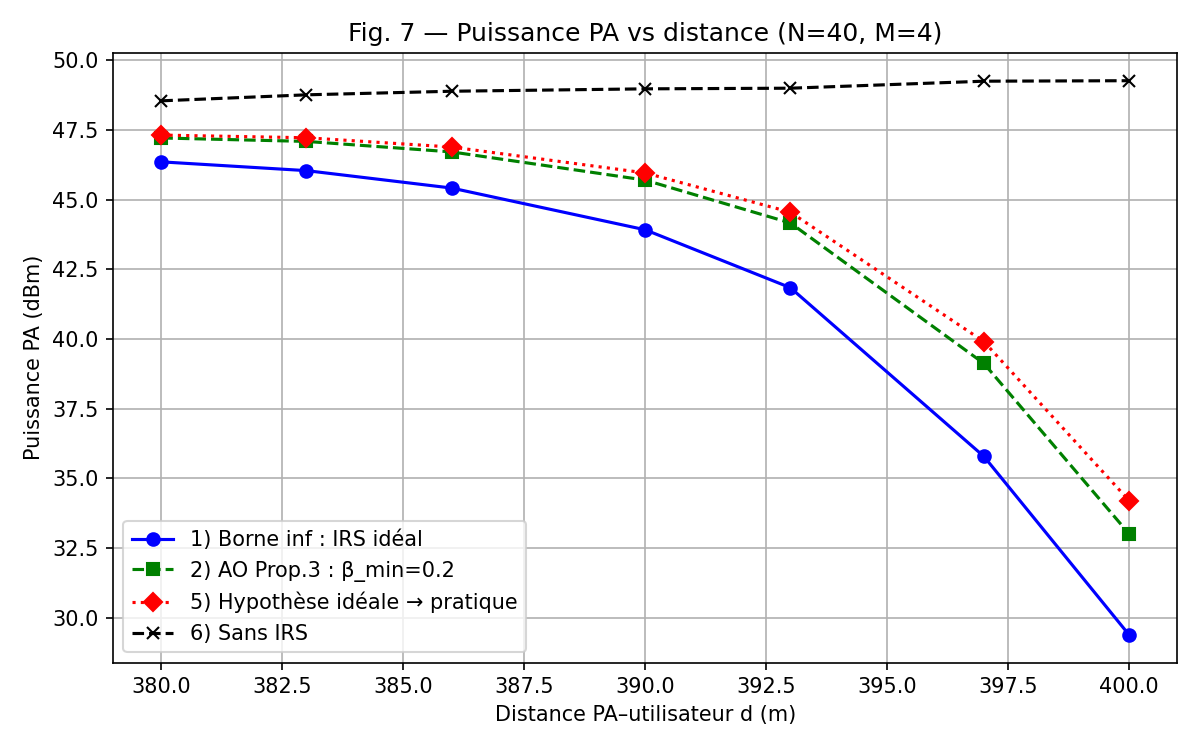
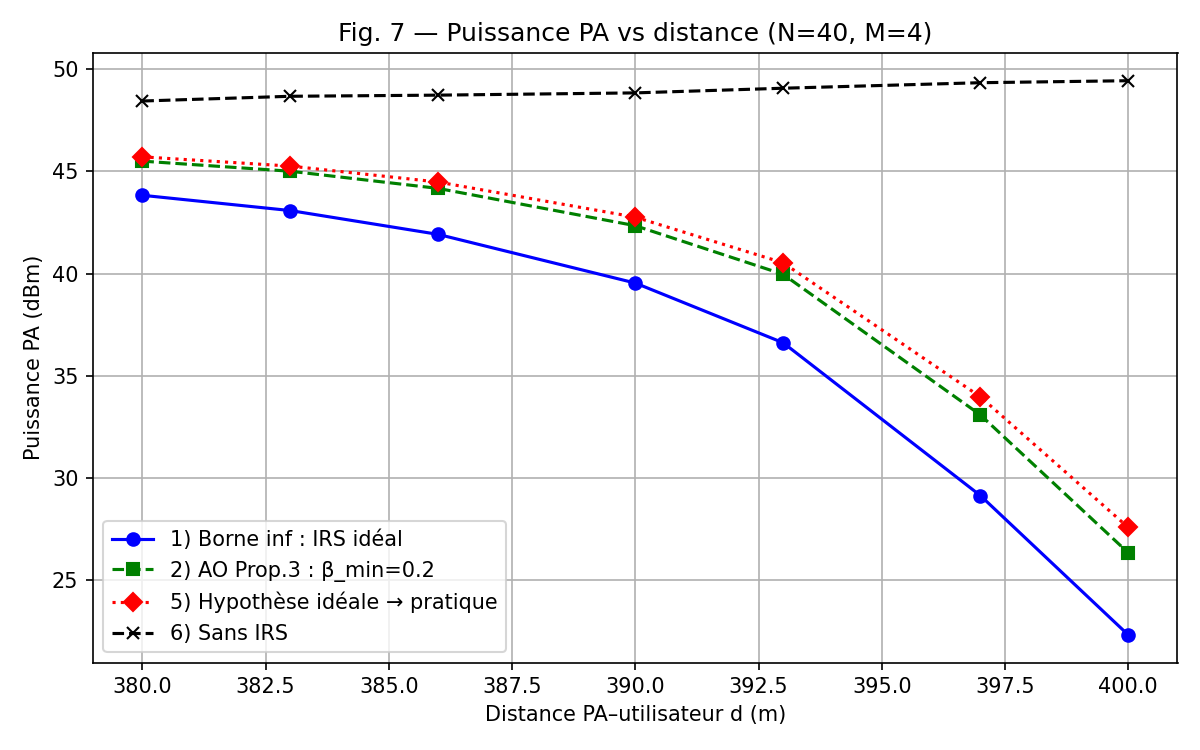
merge

diff --git a/AO.py b/AO.py
@@ -1,4 +1,5 @@
 import numpy as np
+import time 
 
 def beta(theta, beta_min=0.2, alpha=1.6, phi=0.43*np.pi):
     return (1 - beta_min) * ((np.sin(theta - phi) + 1) / 2)**alpha + beta_min
@@ -169,7 +170,7 @@ def puissance_dBm(v, Phi, hd, gamma, sigma2):
 import matplotlib.pyplot as plt
 
 np.random.seed(0)
-N      = 40
+N      = 350
 M      = 4
 gamma  = 10**(10/10)        # SNR cible = 10 dB
 sigma2 = 10**(-94/10)*1e-3  # bruit = -94 dBm en Watts
@@ -224,6 +225,26 @@ plt.legend()
 plt.grid(True)
 plt.tight_layout()
 plt.savefig('figure7.png', dpi=150)
-plt.show()
+plt.show(block=False)
 print("Figure sauvegardée : figure7.png")
 
+Phi_conv, hd_conv = generate_channels(M, N, d_user=390, seed=42)
+
+start = time.time()
+_, _, _, history_conv = AO_algorithm(Phi_conv, hd_conv, N)
+elapsed = time.time() - start
+
+plt.figure()
+plt.plot(range(1, len(history_conv)+1), history_conv, 'g-o', markersize=4)
+plt.xlabel('Itération')
+plt.ylabel('Objectif ||v^H Φ + hd^H||²')
+plt.title(f'Convergence AO — {len(history_conv)} itérations en {elapsed:.3f}s')
+plt.grid(True)
+plt.tight_layout()
+plt.savefig('convergence_AO.png', dpi=150)
+plt.show(block=False)
+
+plt.pause(0.1)
+input("Appuie sur Entrée pour fermer...")
+print(f"Nombre d'itérations : {len(history_conv)}")
+print(f"Historique : {history_conv}")